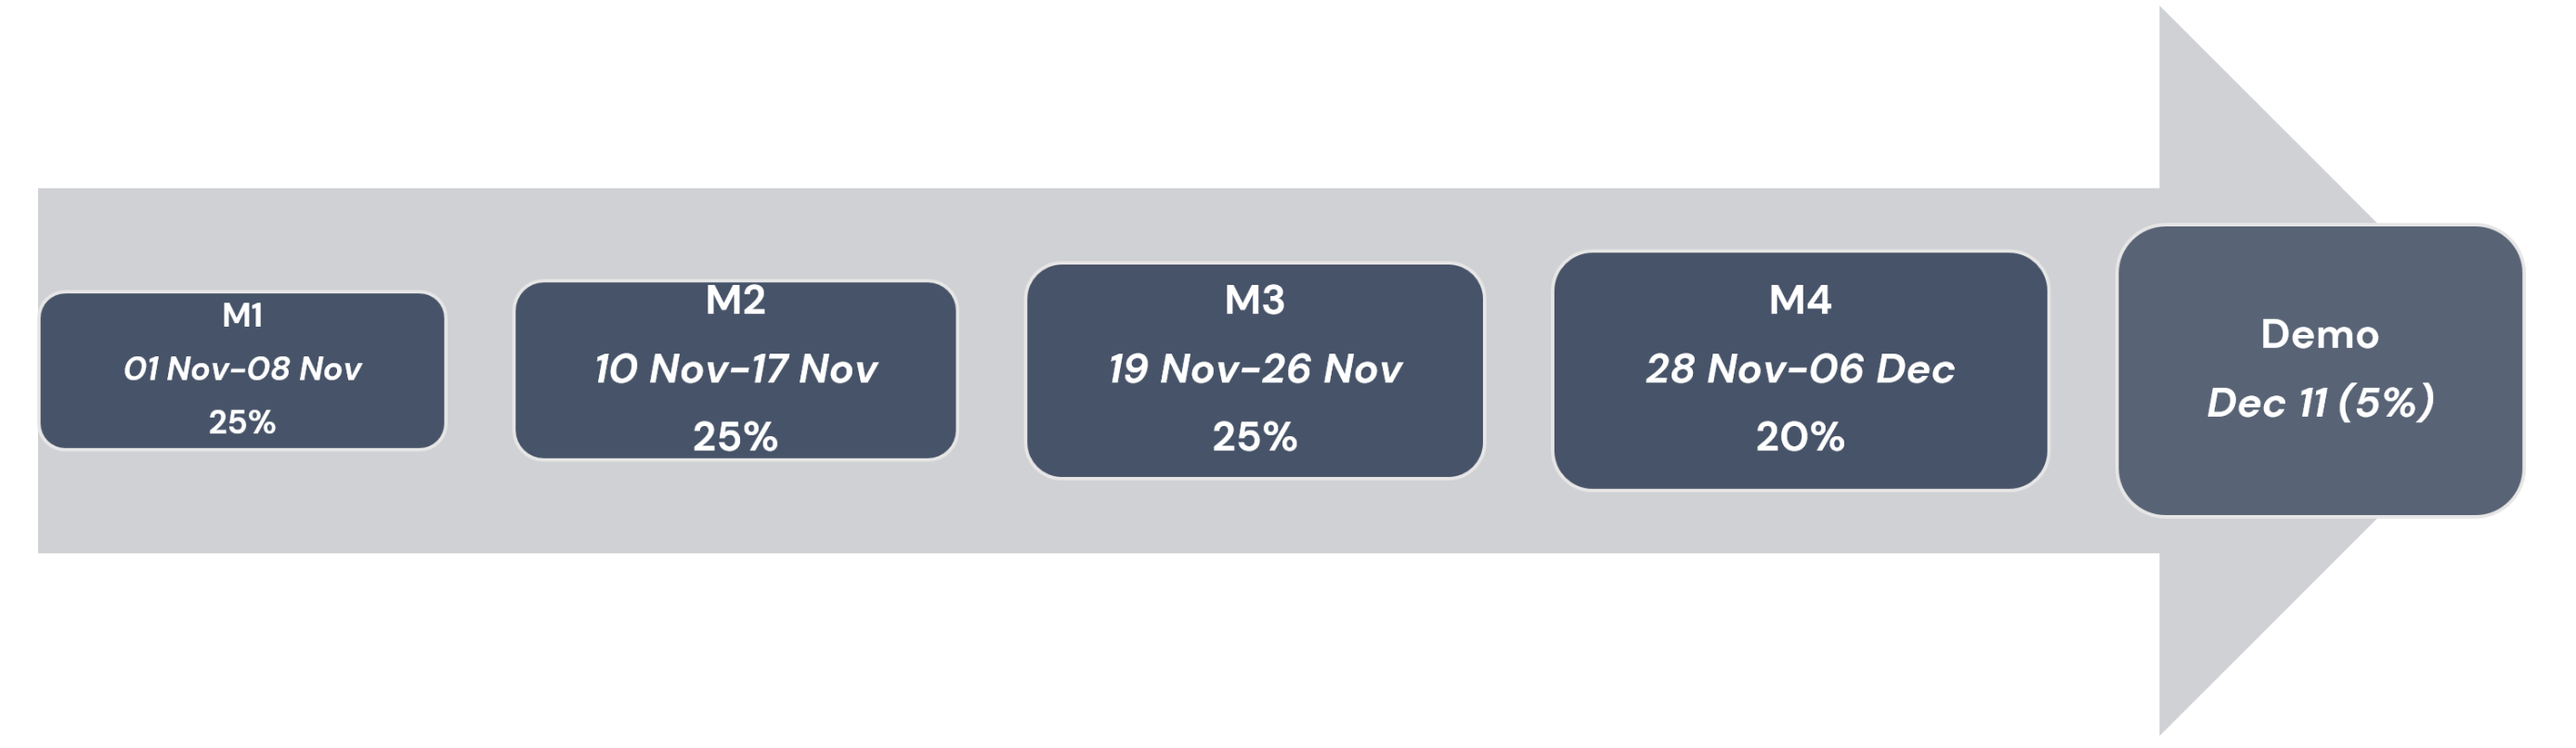
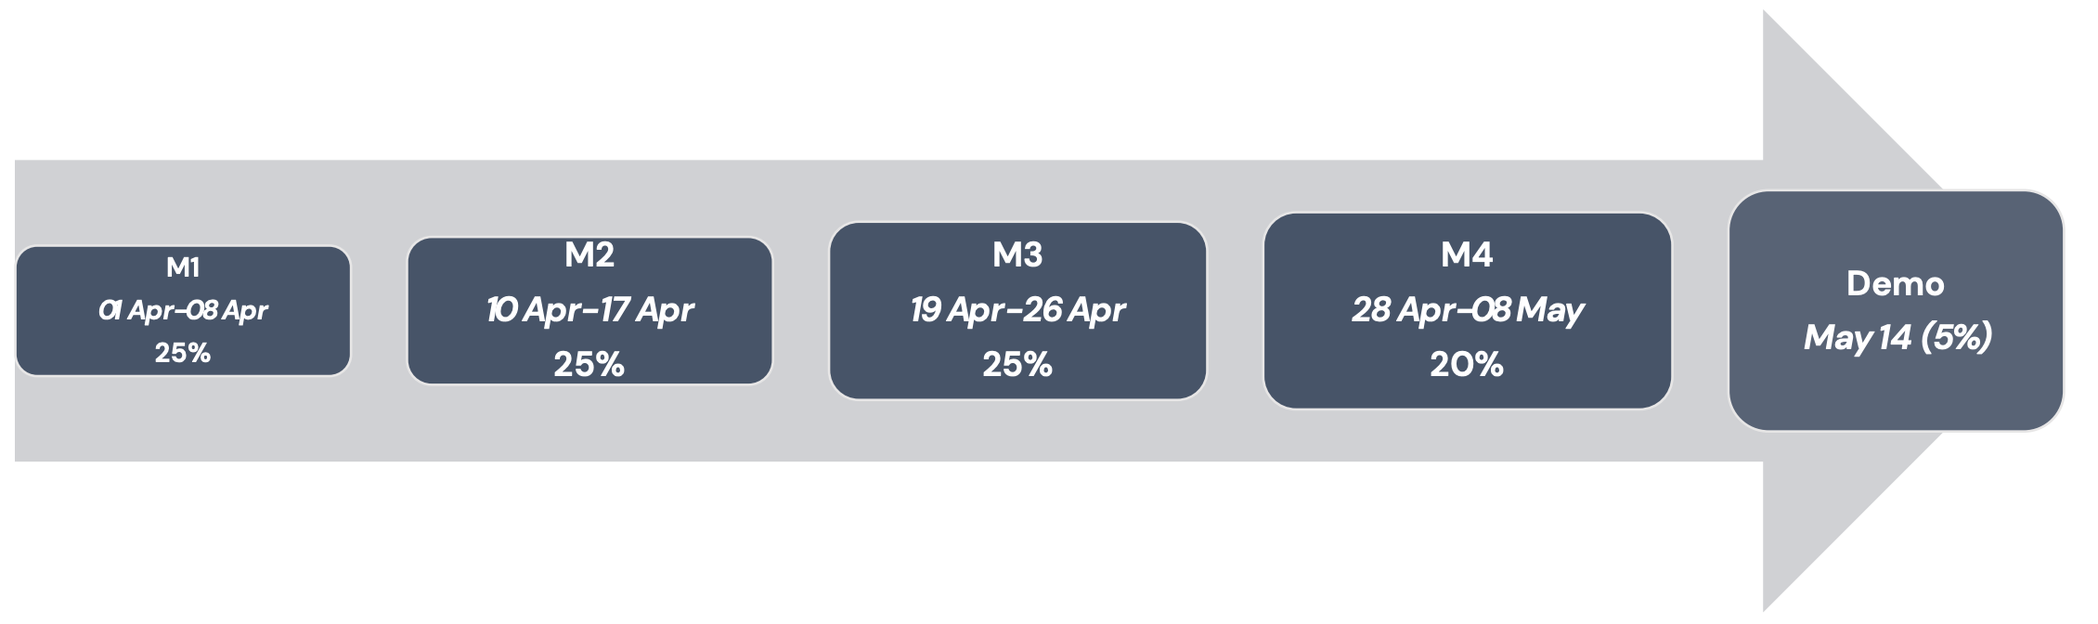
Update project documentation and milestones; add render script

diff --git a/docs/index.html b/docs/index.html
@@ -10,7 +10,7 @@
   <meta name="generator" content="quarto-1.8.25">
 
   <meta name="author" content="Karen Hovhannisyan">
-  <meta name="dcterms.date" content="2025-11-11">
+  <meta name="dcterms.date" content="2026-03-31">
   <title>Group Project</title>
   <meta name="apple-mobile-web-app-capable" content="yes">
   <meta name="apple-mobile-web-app-status-bar-style" content="black-translucent">
@@ -216,7 +216,7 @@ Karen Hovhannisyan
 </div>
 </div>
 
-  <p class="date">2025-11-11</p>
+  <p class="date">2026-03-31</p>
 </section>
 <section>
 <section id="group-project" class="title-slide slide level1 center">
@@ -242,14 +242,14 @@ Karen Hovhannisyan
 <section id="team" class="slide level2">
 <h2>Team</h2>
 <ul>
-<li><strong>Product Manager:</strong> team sync, product research</li>
+<li><strong>Product/Project Manager:</strong> team sync, product research</li>
 <li><strong>DB Developer:</strong> responsible for the database development</li>
 <li><strong>Data Scientist/Analyst:</strong> responsible for Modeling and EDA</li>
 <li><strong>Backend Developer:</strong> responsible for the API</li>
 <li><strong>Frontend Developer:</strong> responsible for the layout of the product</li>
 </ul>
 <blockquote>
-<p>I will be the Project Manager</p>
+<p>I will be the requestor</p>
 </blockquote>
 </section>
 <section id="flow" class="slide level2">
@@ -410,8 +410,8 @@ Karen Hovhannisyan
 <p>Group Project Grade will be allocated to milestones, with the below weights:</p>
 
 <img data-src="img/milestones.png" class="r-stretch"></section>
-<section id="milestone-1-1-nov---8-nov" class="slide level2 smaller">
-<h2>Milestone 1 | 1 Nov - 8 Nov</h2>
+<section id="milestone-1-1-apr---apr-10" class="slide level2 smaller">
+<h2>Milestone 1 | 1 Apr - Apr 10</h2>
 <ol type="1">
 <li>Problem Definition (you can learn more about it <a href="https://docs.google.com/document/d/1uUp4Kpduj768tGjAxXGiGrUesQiYIenQoSLlVpRHqpA/edit?usp=drive_link">here</a>)</li>
 <li>Finalizing roles <a href="https://docs.google.com/spreadsheets/d/1TyMjzzwjN9CZi7VKYZqxUSrDiOfUeaLpuWlcDpUZ8jk/edit#gid=0">here</a></li>
@@ -427,7 +427,7 @@ Karen Hovhannisyan
 <li>deactivate: <code>deactivate</code></li>
 </ul></li>
 <li>Push <em>point 1, point 4, point 6 (requirements.txt).</em></li>
-<li>Prototype the UI using <em>Figma</em> or other similar tool</li>
+<li>Prototype/Flowchart the UI using <em>Figma</em> or other similar tool</li>
 <li>Create a private Slack channel in our Workspace and name it <strong>Group {number}</strong></li>
 <li>Install VsCode (also install Project Manager extension)</li>
 </ol>
@@ -543,7 +543,19 @@ Karen Hovhannisyan
 <section id="execution" class="slide level2">
 <h2>Execution</h2>
 <div class="code-copy-outer-scaffold"><div class="sourceCode" id="cb3"><pre class="sourceCode numberSource yaml number-lines code-with-copy"><code class="sourceCode yaml"><span id="cb3-1"><a></a><span class="at">docker-compose up</span></span></code></pre></div><button title="Copy to Clipboard" class="code-copy-button"><i class="bi"></i></button></div>
-<!-- ## Milestone 2 | 25Mar-06Apr -->
+</section></section>
+<section>
+<section id="milestone-2" class="title-slide slide level1 center">
+<h1>Milestone 2</h1>
+
+</section>
+<section id="switch-to-m2-branch" class="slide level2">
+<h2>Switch to M2 branch</h2>
+<div class="code-copy-outer-scaffold"><div class="sourceCode" id="cb4"><pre class="sourceCode numberSource {bash} number-lines code-with-copy"><code class="sourceCode"><span id="cb4-1"><a></a>git checkout -b m2</span></code></pre></div><button title="Copy to Clipboard" class="code-copy-button"><i class="bi"></i></button></div>
+<div class="code-copy-outer-scaffold"><div class="sourceCode" id="cb5"><pre class="sourceCode numberSource {bash} number-lines code-with-copy"><code class="sourceCode"><span id="cb5-1"><a></a>git pull</span></code></pre></div><button title="Copy to Clipboard" class="code-copy-button"><i class="bi"></i></button></div>
+</section>
+<section id="section" class="slide level2">
+<h2></h2>
 <!-- 1. Decide the endpoints (the actions that your product is going to include) -->
 <!-- 1. DB developer: Design the database using Star or any other schema (provide ERD) -->
 <!-- 2. DB developer: Insert Sample to data -->
